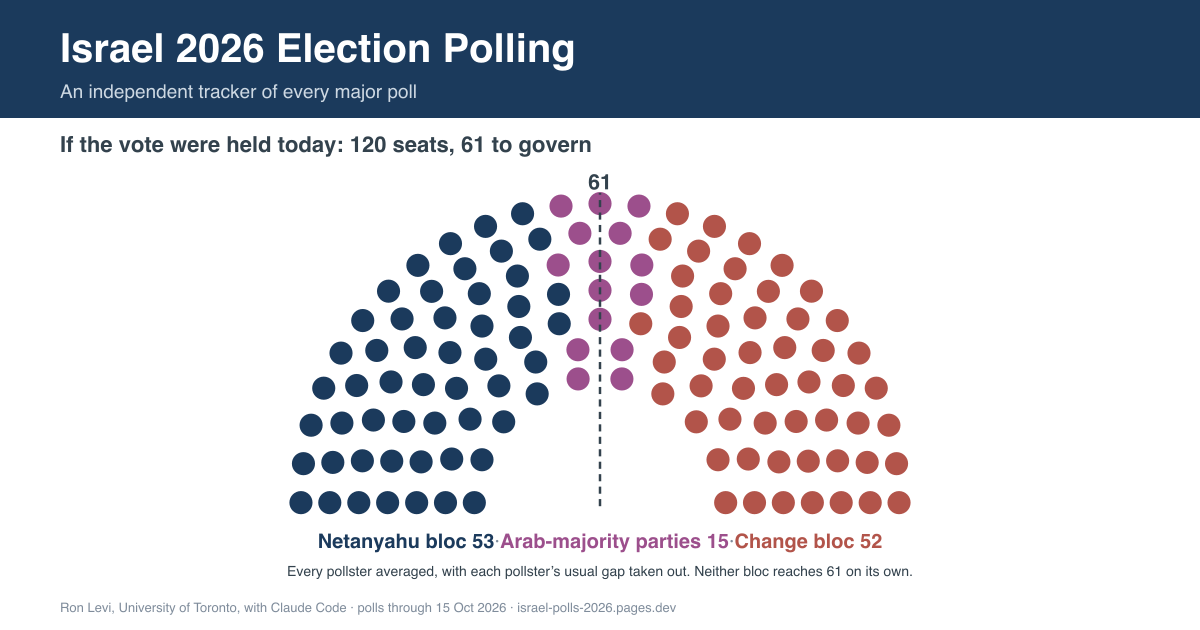
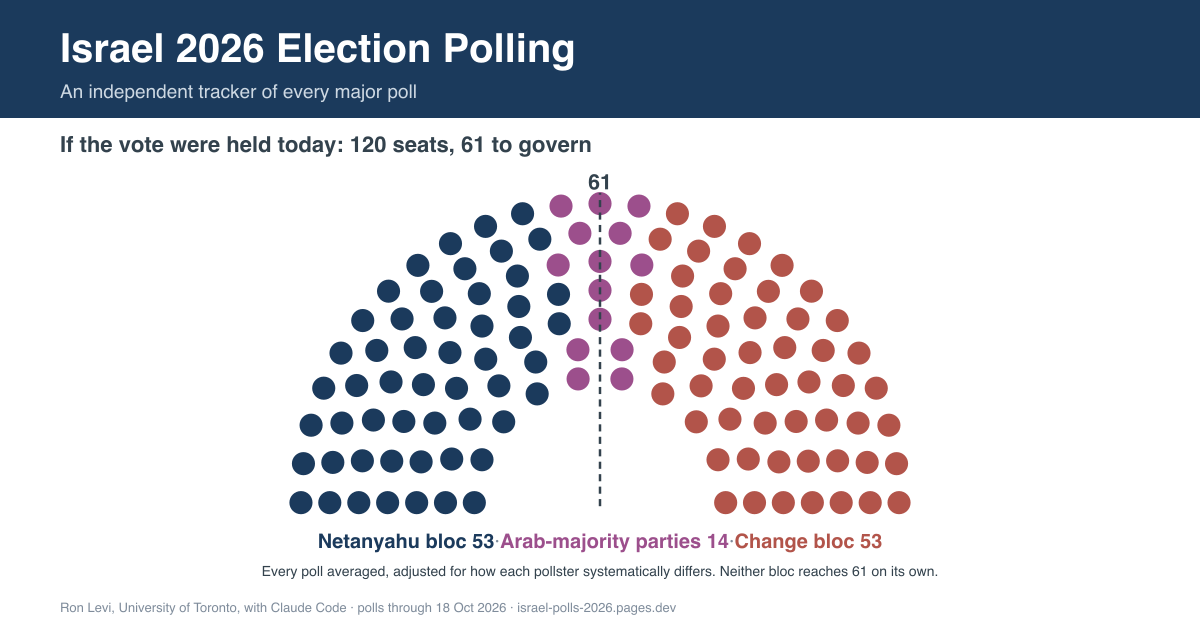
Refresh the seat dots and the wording

Changed region(s): [[0.2158, 0.8444, 0.7708, 0.9349], [0.5242, 0.4524, 0.555, 0.4825]]

diff --git a/index.html b/index.html
@@ -4,7 +4,7 @@
 <meta charset="utf-8">
 <meta name="viewport" content="width=device-width, initial-scale=1">
 <title>Israel 2026 Knesset Election Polls: Data Explorer &amp; Analysis</title>
-<meta name="description" content="Every major poll for Israel&rsquo;s 2026 Knesset election, corrected for each company&rsquo;s usual gap. A daily nowcast, who reaches 61, and candidate slates.">
+<meta name="description" content="Every poll for Israel&rsquo;s 2026 election, adjusted for how each pollster systematically differs from the rest. A daily nowcast, who reaches 61, candidate slates.">
 <meta name="author" content="Ron Levi">
 <meta property="og:type" content="website">
 <meta property="og:site_name" content="Israel 2026 Election Polling Data">
@@ -26,7 +26,7 @@
 </head>
 <body>
 <h1>Israel 2026 Knesset Election Polls</h1>
-<p>Every major poll for Israel&rsquo;s 2026 Knesset election, corrected for each company&rsquo;s usual gap, with a daily nowcast, coalition arithmetic and candidate slates. By Ron Levi, University of Toronto.</p>
+<p>Every poll for Israel&rsquo;s 2026 election, adjusted for how each pollster systematically differs from the rest, with a daily nowcast, coalition arithmetic and candidate slates. By Ron Levi, University of Toronto.</p>
 <p>Taking you to the tracker: <a href="https://israel-polls-2026.pages.dev/">israel-polls-2026.pages.dev</a></p>
 </body>
 </html>
